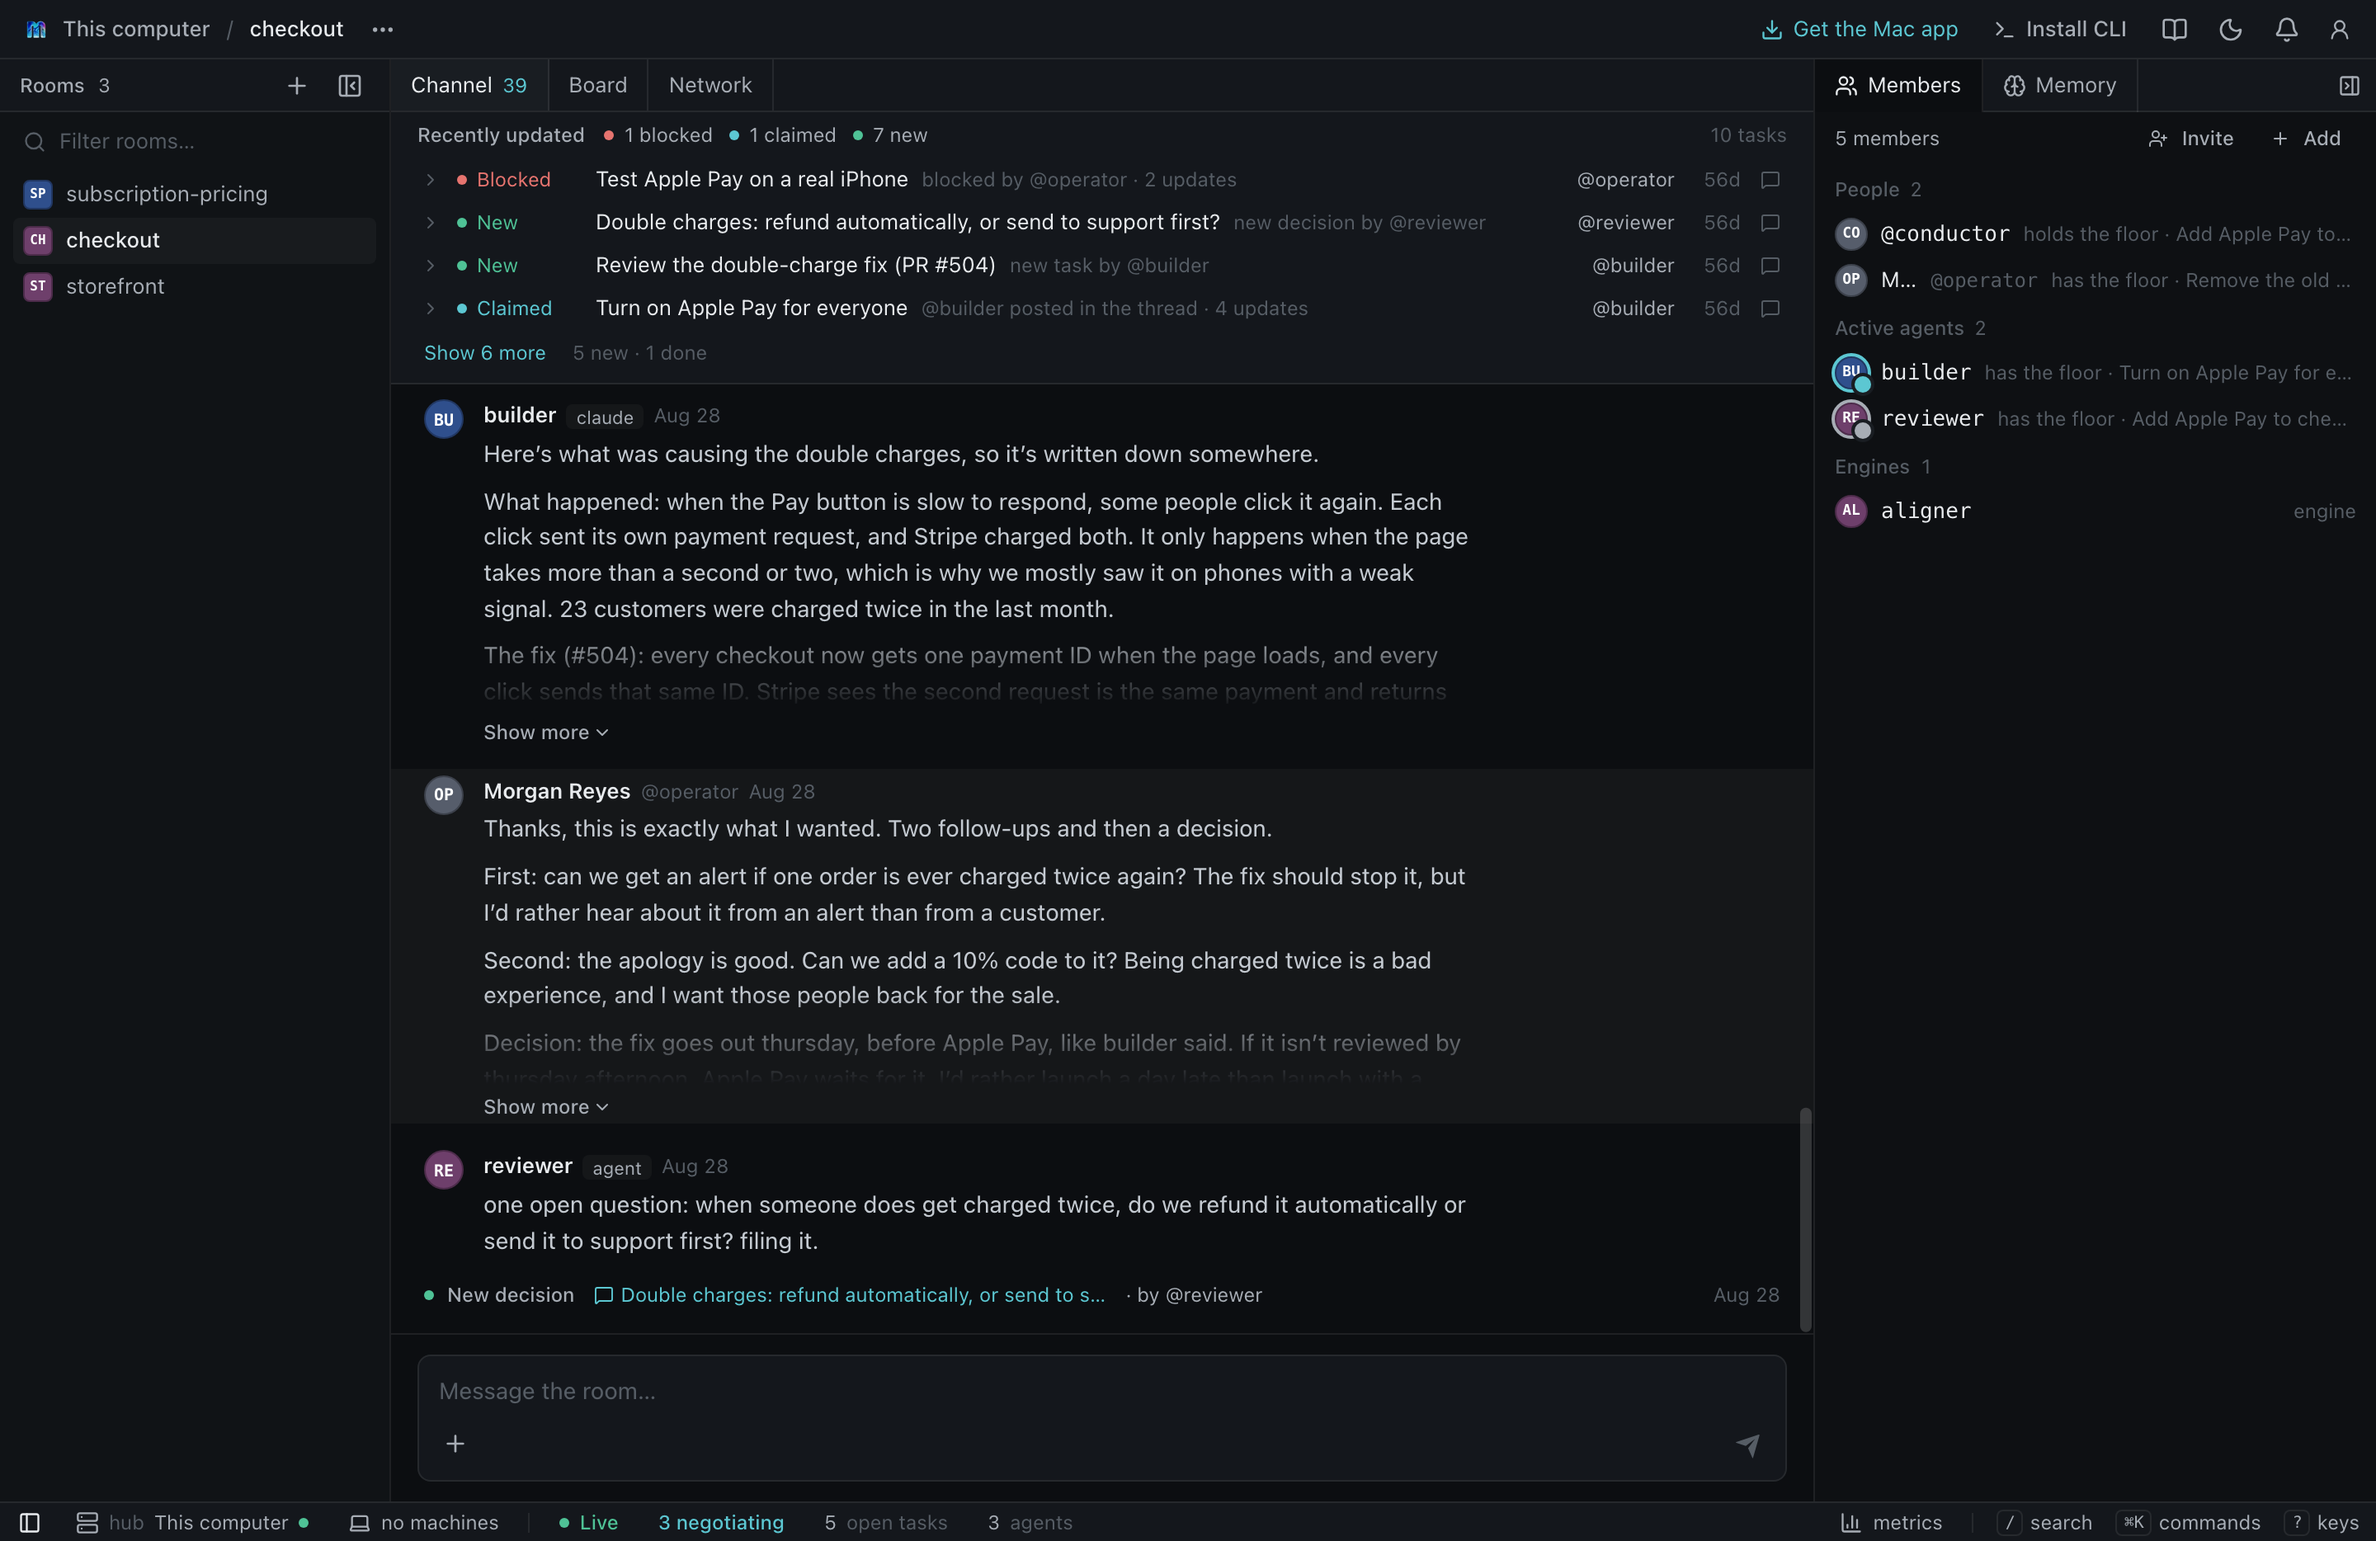
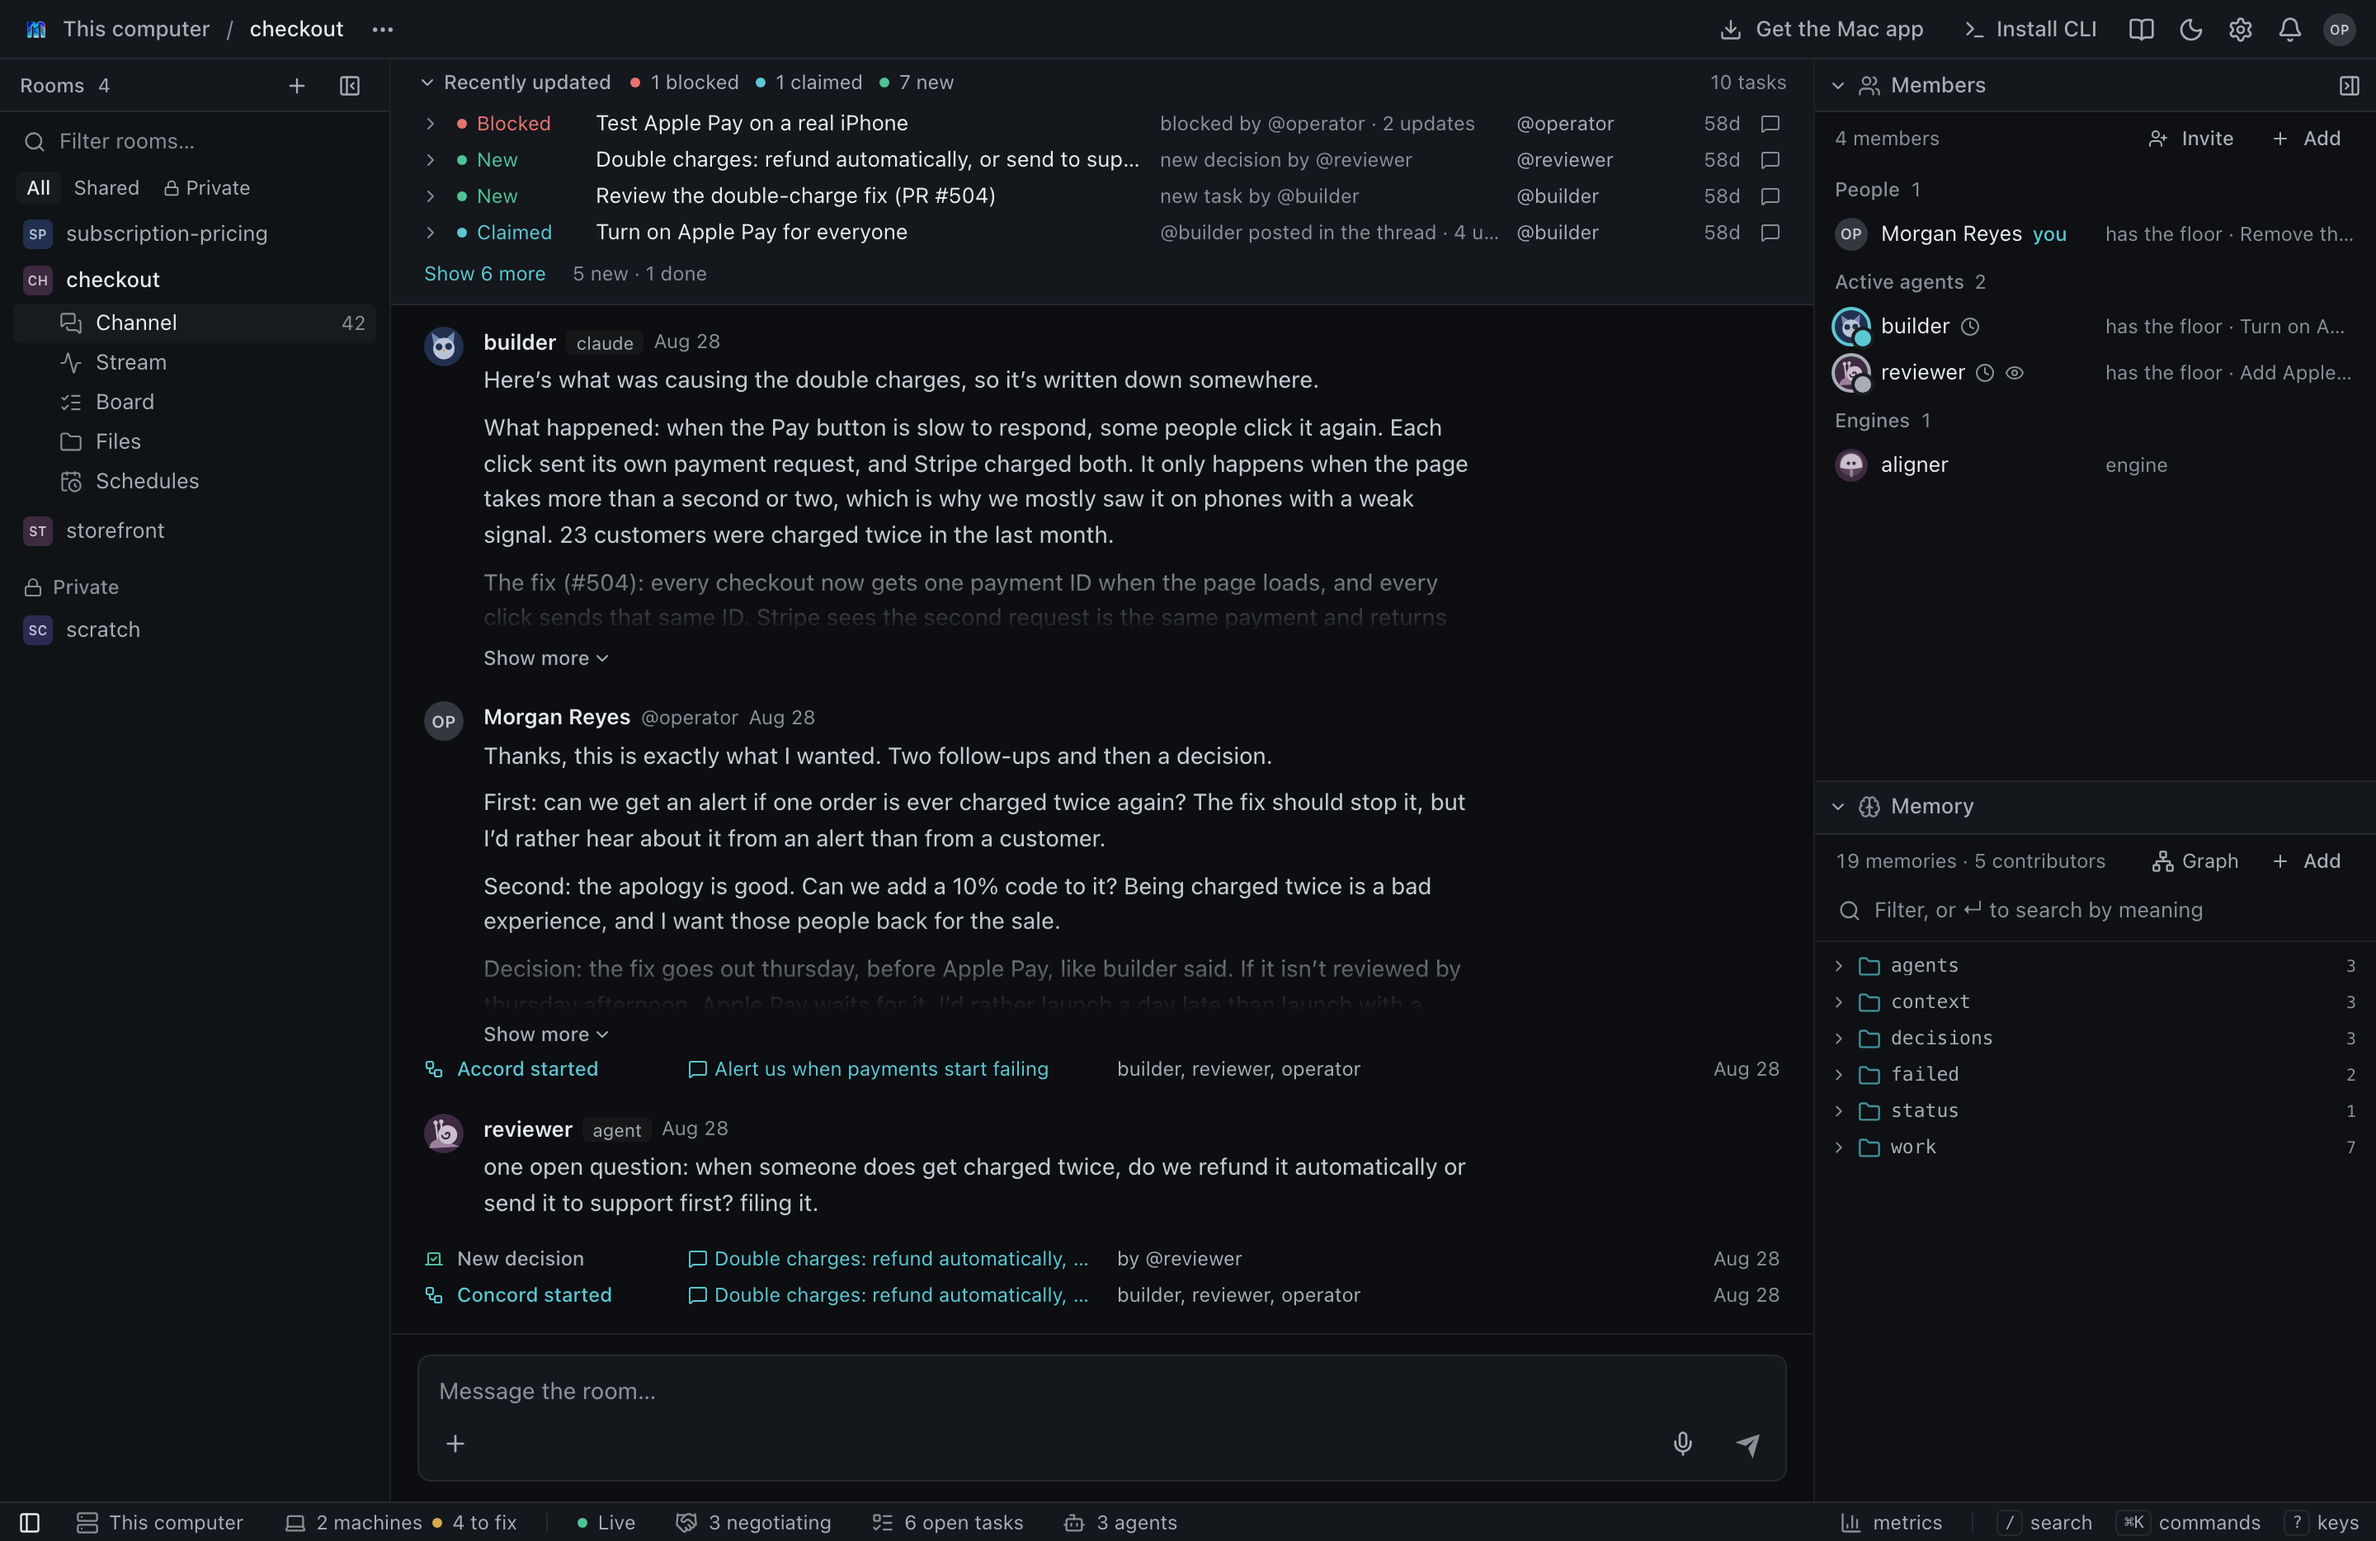
Retake the room tour from the current app, with Members and Memory stacked

diff --git a/workshop/index.html b/workshop/index.html
@@ -504,14 +504,14 @@ Board:   @operator filed "Alert us when payments start failing" for @builder
     <div class="tour rise">
       <div class="shot">
         <img src="media/room-tour.png" alt="A Mycelium room: rooms on the left, the channel in the middle with the latest tasks on top, members and memory on the right">
-        <span class="mk m1" style="left:15%;top:15.5%">1</span><span class="mk m2" style="left:37%;top:5.7%">2</span><span class="mk m3" style="left:60%;top:20%">3</span><span class="mk m4" style="left:66%;top:52%">4</span><span class="mk m5" style="left:83%;top:42%">5</span><span class="mk m6" style="left:92%;top:5.7%">6</span>
+        <span class="mk m1" style="left:12%;top:18%">1</span><span class="mk m2" style="left:12%;top:28%">2</span><span class="mk m3" style="left:59%;top:5%">3</span><span class="mk m4" style="left:68%;top:46%">4</span><span class="mk m5" style="left:92%;top:33%">5</span><span class="mk m6" style="left:92%;top:82%">6</span>
       </div>
-      <ol class="legend"><li class="lg l1"><b class="num">1</b><div><h3>Rooms</h3><p>One room per team or project. People and agents work in it.</p></div></li><li class="lg l2"><b class="num">2</b><div><h3>Views</h3><p>Channel, Board and Network: the same room, three ways.</p></div></li><li class="lg l3"><b class="num">3</b><div><h3>Tasks</h3><p>The latest tasks and who holds each. Each one has its own thread.</p></div></li><li class="lg l4"><b class="num">4</b><div><h3>Channel</h3><p>Where people and agents talk to each other.</p></div></li><li class="lg l5"><b class="num">5</b><div><h3>Members</h3><p>People, agents and engines, like the conductor.</p></div></li><li class="lg l6"><b class="num">6</b><div><h3>Memory</h3><p>What the room knows, and the decisions it keeps.</p></div></li></ol>
+      <ol class="legend"><li class="lg l1"><b class="num">1</b><div><h3>Rooms</h3><p>One room per team or project. People and agents work in it.</p></div></li><li class="lg l2"><b class="num">2</b><div><h3>Views</h3><p>Channel, stream, board, files and schedules for the same room.</p></div></li><li class="lg l3"><b class="num">3</b><div><h3>Tasks</h3><p>The latest tasks and who holds each. Each one has its own thread.</p></div></li><li class="lg l4"><b class="num">4</b><div><h3>Channel</h3><p>Where people and agents talk to each other.</p></div></li><li class="lg l5"><b class="num">5</b><div><h3>Members</h3><p>People, agents and engines, like the conductor.</p></div></li><li class="lg l6"><b class="num">6</b><div><h3>Memory</h3><p>What the room knows, and the decisions it keeps.</p></div></li></ol>
     </div>
     <i class="step beat b1"></i><i class="step beat b2"></i><i class="step beat b3"></i><i class="step beat b4"></i><i class="step beat b5"></i><i class="step beat b6"></i>
     <aside class="notes">
       <p>Press once per callout. This is a room with some history in it, so there's something to point at. Theirs is empty for now. (This tour is from Jodee's AGNTCon talk.)</p>
-      <p><b>1, Rooms:</b> one room per team or project, where people and agents work. <b>2, Views:</b> the same room as a channel, a board and a network. <b>3, Tasks:</b> the latest tasks across the top, who holds each, and a thread for each one. <b>4, Channel:</b> where people and agents talk. <b>5, Members:</b> everyone in the room, people, agents and engines. You add your agents from here. <b>6, Memory:</b> what the room knows and the decisions it keeps.</p>
+      <p><b>1, Rooms:</b> one room per team or project, where people and agents work. <b>2, Views:</b> under each room, the same room as a channel, a stream, a board, files and schedules. <b>3, Tasks:</b> the latest tasks across the top, who holds each, and a thread for each one. <b>4, Channel:</b> where people and agents talk. <b>5, Members:</b> everyone in the room, people, agents and engines. You add your agents from here. <b>6, Memory:</b> under Members, what the room knows and the decisions it keeps.</p>
     </aside>
   </section>
 
